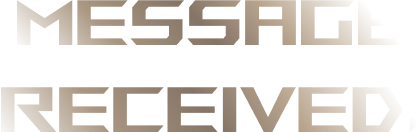
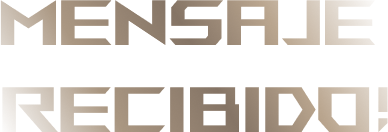
up layout

diff --git a/src/Components/Form1.js b/src/Components/Form1.js
@@ -189,14 +189,24 @@ const Form1 = ({
                     exit={{ opacity: 0 }}
                     className={`max-h-full ${scrollbarStyle}  overflow-y-auto px-4 flex flex-col h-full  `}
                   >
-                    <div className="  w-[55%] mx-auto drop-shadow-[0_15px_10px_rgba(0,0,0,1)] mb-[2%]">
-                      <img
-                        src={
-                          process.env.PUBLIC_URL + "/images/form_title_no.png"
-                        }
-                        alt=""
-                        className="w-full"
-                      />
+                    <div className="  w-full mx-auto drop-shadow-[0_15px_10px_rgba(0,0,0,1)] mb-[2%]">
+                      {formtype === "REDEEM" ? (
+                        <img
+                          src={
+                            process.env.PUBLIC_URL + "/images/form_title.png"
+                          }
+                          alt=""
+                          className="w-[70%] mx-auto"
+                        />
+                      ) : (
+                        <img
+                          src={
+                            process.env.PUBLIC_URL + "/images/form_title_no.png"
+                          }
+                          alt=""
+                          className="w-[70%] mx-auto"
+                        />
+                      )}
                     </div>
                     <div className="text-[3.5vw] text-white/50 leading-tight space-y-2 pt-[3%] font-light ">
                       {line1 && <p>{line1}</p>}
@@ -431,18 +441,43 @@ const Form1 = ({
                     className="flex flex-col items-center  justify-around h-full bg-cyan-700/0"
                   >
                     <div className="  w-[60%] mx-auto drop-shadow-[0_15px_10px_rgba(0,0,0,1)] mb-[2%]">
-                      <img
-                        src={
-                          process.env.PUBLIC_URL +
-                          "/images/form_success_msg.png"
-                        }
-                        alt=""
-                        className="w-full"
-                      />
+                      {formtype === "REDEEM" ? (
+                        <img
+                          src={
+                            process.env.PUBLIC_URL +
+                            "/images/form_success_msg.png"
+                          }
+                          alt=""
+                          className="w-full"
+                        />
+                      ) : (
+                        <img
+                          src={
+                            process.env.PUBLIC_URL +
+                            "/images/form_success_msg_no.png"
+                          }
+                          alt=""
+                          className="w-full"
+                        />
+                      )}
                     </div>
                     <div className="text-[3.8vw] text-white/50 leading-tight space-y-2 py-[10%] font-light text-center ">
-                      <p>Hemos recibido tu respuesta. </p>
-                      <p>¡Mucha suerte en el sorteo!</p>
+                      {formtype === "REDEEM" ? (
+                        <>
+                          <p>Hemos recibido su respuesta y nos </p>
+                          <p>
+                            pondremos en contacto con usted por correo
+                            electrónico{" "}
+                          </p>
+                          <p>antes del 27 de septiembre.</p>
+                        </>
+                      ) : (
+                        <>
+                          {" "}
+                          <p>Hemos recibido tu respuesta. </p>
+                          <p>¡Mucha suerte en el sorteo!</p>
+                        </>
+                      )}
                     </div>
                     <div className="w-1/2 mx-auto mt-au">
                       <div
@@ -501,12 +536,20 @@ const Form1 = ({
                   formtype === "REDEEM" ? " px-8 py-6" : "px-3"
                 } `}
               >
-                <div className="  w-[46%] mx-auto drop-shadow-[0_15px_10px_rgba(0,0,0,1)] mb-[2%]">
-                  <img
-                    src={process.env.PUBLIC_URL + "/images/form_title_no.png"}
-                    alt=""
-                    className="w-full"
-                  />
+                <div className="  w-full mx-auto drop-shadow-[0_15px_10px_rgba(0,0,0,1)] mb-[2%]">
+                  {formtype === "REDEEM" ? (
+                    <img
+                      src={process.env.PUBLIC_URL + "/images/form_title.png"}
+                      alt=""
+                      className="w-[70%] mx-auto"
+                    />
+                  ) : (
+                    <img
+                      src={process.env.PUBLIC_URL + "/images/form_title_no.png"}
+                      alt=""
+                      className="w-[70%] mx-auto"
+                    />
+                  )}
                 </div>
                 <div
                   className={`text-[1vw] text-white/60 leading-tight space-y-[2%] py-[%] font-light `}
@@ -691,51 +734,7 @@ const Form1 = ({
                     experience!  Now, fill in your information for a chance to
                     win exciting prizes. Winning notifications will be sent to
                     your contact email address by 6/9 at 12:00 PM. If you are
-                    not selected as a winner, you will not receive further
-                    notification.Congratulations on completing the "Create your
-                    gamer card" experience!  Now, fill in your information for a
-                    chance to win exciting prizes. Winning notifications will be
-                    sent to your contact email address by 6/9 at 12:00 PM. If
-                    you are not selected as a winner, you will not receive
-                    further notification.Congratulations on completing the
-                    "Create your gamer card" experience!  Now, fill in your
-                    information for a chance to win exciting prizes. Winning
-                    notifications will be sent to your contact email address by
-                    6/9 at 12:00 PM. If you are not selected as a winner, you
-                    will not receive further notification.Congratulations on
-                    completing the "Create your gamer card" experience!  Winning
-                    notifications will be sent to your contact email address by
-                    6/9 at 12:00 PM. If you are not selected as a winner, you
-                    will not receive further notification.Congratulations on
-                    completing the "Create your gamer card" experience!  Winning
-                    notifications will be sent to your contact email address by
-                    6/9 at 12:00 PM. If you are not selected as a winner, you
-                    will not receive further notification.Congratulations on
-                    completing the "Create your gamer card" experience!  Winning
-                    notifications will be sent to your contact email address by
-                    6/9 at 12:00 PM. If you are not selected as a winner, you
-                    will not receive further notification.Congratulations on
-                    completing the "Create your gamer card" experience!  Winning
-                    notifications will be sent to your contact email address by
-                    6/9 at 12:00 PM. If you are not selected as a winner, you
-                    will not receive further notification.Congratulations on
-                    completing the "Create your gamer card" experience!  Winning
-                    notifications will be sent to your contact email address by
-                    6/9 at 12:00 PM. If you are not selected as a winner, you
-                    will not receive further notification.Congratulations on
-                    completing the "Create your gamer card" experience!  Winning
-                    notifications will be sent to your contact email address by
-                    6/9 at 12:00 PM. If you are not selected as a winner, you
-                    will not receive further notification.Congratulations on
-                    completing the "Create your gamer card" experience!  Winning
-                    notifications will be sent to your contact email address by
-                    6/9 at 12:00 PM. If you are not selected as a winner, you
-                    will not receive further notification.Congratulations on
-                    completing the "Create your gamer card" experience!  Winning
-                    notifications will be sent to your contact email address by
-                    6/9 at 12:00 PM. If you are not selected as a winner, you
-                    will not receive further notification.Congratulations on
-                    completing the "Create your gamer card" experience! 
+                    not
                     <br />
                     <br />
                     <br />
@@ -762,17 +761,41 @@ const Form1 = ({
                 className="flex flex-col items-center justify-center h-full"
               >
                 <div className="  w-[50%] mx-auto drop-shadow-[0_15px_10px_rgba(0,0,0,1)] mb-[2%]">
-                  <img
-                    src={
-                      process.env.PUBLIC_URL + "/images/form_success_msg.png"
-                    }
-                    alt=""
-                    className="w-full"
-                  />
+                  {formtype === "REDEEM" ? (
+                    <img
+                      src={
+                        process.env.PUBLIC_URL + "/images/form_success_msg.png"
+                      }
+                      alt=""
+                      className="w-full"
+                    />
+                  ) : (
+                    <img
+                      src={
+                        process.env.PUBLIC_URL +
+                        "/images/form_success_msg_no.png"
+                      }
+                      alt=""
+                      className="w-full"
+                    />
+                  )}
                 </div>
                 <div className="text-[1vw] text-white/50 leading-tight space-y-2 py-[10%] font-light text-center">
-                  <p>Hemos recibido tu respuesta.</p>
-                  <p>¡Mucha suerte en el sorteo!</p>
+                  {formtype === "REDEEM" ? (
+                    <>
+                      <p>Hemos recibido su respuesta y nos </p>
+                      <p>
+                        pondremos en contacto con usted por correo electrónico{" "}
+                      </p>
+                      <p>antes del 27 de septiembre.</p>
+                    </>
+                  ) : (
+                    <>
+                      {" "}
+                      <p>Hemos recibido tu respuesta. </p>
+                      <p>¡Mucha suerte en el sorteo!</p>
+                    </>
+                  )}
                 </div>
                 <div className="w-1/2 mx-auto mt-[5%]">
                   <div

diff --git a/src/Pages/Camera.js b/src/Pages/Camera.js
@@ -481,7 +481,7 @@ const Camera = () => {
                 autoplay
               />
               <Player
-                src={r2gifurl + "/es/camera-02.json"}
+                src={r2gifurl + "/animationData/mb_camera_center.json"}
                 className="  absolute top-[45%] left-1/2 -translate-x-1/2 -translate-y-1/2 w-[95%] h-auto"
                 loop
                 autoplay
@@ -796,11 +796,12 @@ const Camera = () => {
                   />
                 </div>
 
-                <div className="  relative  bg-yellow-500/0 ml-auto">
-                  <img
-                    src={r2gifurl + "/images/R.gif"}
-                    alt=""
+                <div className="  relative  bg-yellow-500/0 ml-auto flex ">
+                  <Player
+                    src={r2gifurl + "/es/camera-02.json"}
                     className=" mix-blend-screen max-w-full h-full"
+                    loop
+                    autoplay
                   />
                 </div>
               </div>
@@ -889,10 +890,10 @@ const Camera = () => {
             <div className="h-[1px] w-[6vw] bg-white/70 mr-2"></div>
             <button
               onClick={handlePrev}
-              className="w-[50%] text-[1vw] aspect-[90/40]  bg-contain bg-left-top bg-no-repeat flex items-center justify-center hover:scale-95 font-cachet font-bold"
+              className="w-[70%] text-[1vw]  aspect-[120/40]  bg-contain bg-left-top bg-no-repeat flex items-center justify-center hover:scale-95 font-cachet font-bold"
               style={{
                 backgroundImage: `url('${
-                  r2imagesurl + "/images/redbutton_bg2.png"
+                  r2imagesurl + "/es/redbutton_long2.png"
                 }')`,
               }}
             >
@@ -907,12 +908,12 @@ const Camera = () => {
           >
             <button
               onClick={handleNext}
-              className={` w-[50%] text-[1vw] aspect-[90/40]  bg-contain bg-left-top bg-no-repeat flex items-center justify-center hover:scale-95 font-cachet font-bold transition-all duration-700 ${
+              className={` w-[70%] text-[1vw] aspect-[120/40]   bg-contain bg-left-top bg-no-repeat flex items-center justify-center hover:scale-95 font-cachet font-bold transition-all duration-700 ${
                 image ? " opacity-100" : " opacity-20 "
               }`}
               style={{
                 backgroundImage: `url('${
-                  r2imagesurl + "/images/redbutton_bg2.png"
+                  r2imagesurl + "/es/redbutton_long2.png"
                 }')`,
               }}
             >

diff --git a/src/Pages/Home.js b/src/Pages/Home.js
@@ -519,10 +519,10 @@ const Home = () => {
                   disabled={isSending || !isAccept ? true : false}
                   className={`${
                     isSending || !isAccept ? " grayscale " : "  grayscale-0"
-                  } z-0 w-[24%] mt-[10%] aspect-[90/40]  bg-contain bg-top bg-no-repeat flex items-center justify-center   hover:scale-95 font-cachet font-bold`}
+                  } z-0 w-[40%] mt-[10%]  aspect-[140/40] px-2   bg-contain bg-top bg-no-repeat flex items-center justify-center   hover:scale-95 font-cachet font-bold`}
                   style={{
                     backgroundImage: `url('${
-                      r2imagesurl + "/images/redbutton_bg.png"
+                      r2imagesurl + "/es/redbutton_long.png"
                     }')`,
                   }}
                 >
@@ -761,7 +761,7 @@ const Home = () => {
             <div className=" flex items-center  ">
               <div className="flex items-center gap-1  w-full  bg-slate-500/0   ">
                 <div
-                  className={` flex w-full aspect-[340/40] justify-center items-center  bg-slate-500/0 ${
+                  className={` flex w-full aspect-[350/40] justify-center items-center  bg-slate-500/0 ${
                     isUsername ? " " : " png-container"
                   }    `}
                 >
@@ -814,12 +814,12 @@ const Home = () => {
                   onClick={handleClick}
                   aria-label="COMENZAR"
                   disabled={isSending || !isAccept ? true : false}
-                  className={`z-0 w-[24%] text-[0.7vw] aspect-[95/40]  ${
+                  className={`z-0  text-[0.9vw] aspect-[140/40] px-2  ${
                     isSending || !isAccept ? " grayscale " : "  grayscale-0"
                   }  bg-contain bg-top bg-no-repeat flex items-center justify-center   hover:scale-95 font-robotocon font-bold `}
                   style={{
                     backgroundImage: `url('${
-                      r2imagesurl + "/images/redbutton_bg.png"
+                      r2imagesurl + "/es/redbutton_long.png"
                     }')`,
                   }}
                 >

diff --git a/src/Pages/Character.js b/src/Pages/Character.js
@@ -1364,10 +1364,10 @@ const Character = () => {
             <div className="h-[1px] w-[6vw] bg-white/70 mr-2"></div>
             <button
               onClick={handlePrev}
-              className="w-[50%] text-[1vw]  aspect-[90/40] bg-contain bg-left-top bg-no-repeat flex items-center justify-center hover:scale-95 font-cachet font-bold"
+              className="w-[70%] text-[1vw]  aspect-[120/40]  bg-contain bg-left-top bg-no-repeat flex items-center justify-center hover:scale-95 font-cachet font-bold"
               style={{
                 backgroundImage: `url('${
-                  r2imagesurl + "/images/redbutton_bg2.png"
+                  r2imagesurl + "/es/redbutton_long2.png"
                 }')`,
               }}
             >
@@ -1382,10 +1382,10 @@ const Character = () => {
           >
             <button
               onClick={handleNext}
-              className="  w-[50%] text-[1vw] aspect-[90/40]   bg-contain bg-left-top bg-no-repeat flex items-center justify-center hover:scale-95 font-cachet font-bold"
+              className="  w-[70%] text-[1vw] aspect-[120/40]    bg-contain bg-left-top bg-no-repeat flex items-center justify-center hover:scale-95 font-cachet font-bold"
               style={{
                 backgroundImage: `url('${
-                  r2imagesurl + "/images/redbutton_bg2.png"
+                  r2imagesurl + "/es/redbutton_long2.png"
                 }')`,
               }}
             >

diff --git a/src/Helper/Helper.js b/src/Helper/Helper.js
@@ -68,8 +68,8 @@ export const getDescriptionByMbti = (mbtiType) => {
 
 export const randomTwo = () => {
   let imgs = ["1", "2"]; // 图片数组
-  let probabilities = [0.995, 0.005];
-  // let probabilities = [0.001, 0.999];
+  // let probabilities = [0.995, 0.005];
+  let probabilities = [0.001, 0.999];
   let sum = 0;
   let r = Math.random(); // 生成一个[0, 1)之间的随机数
 
